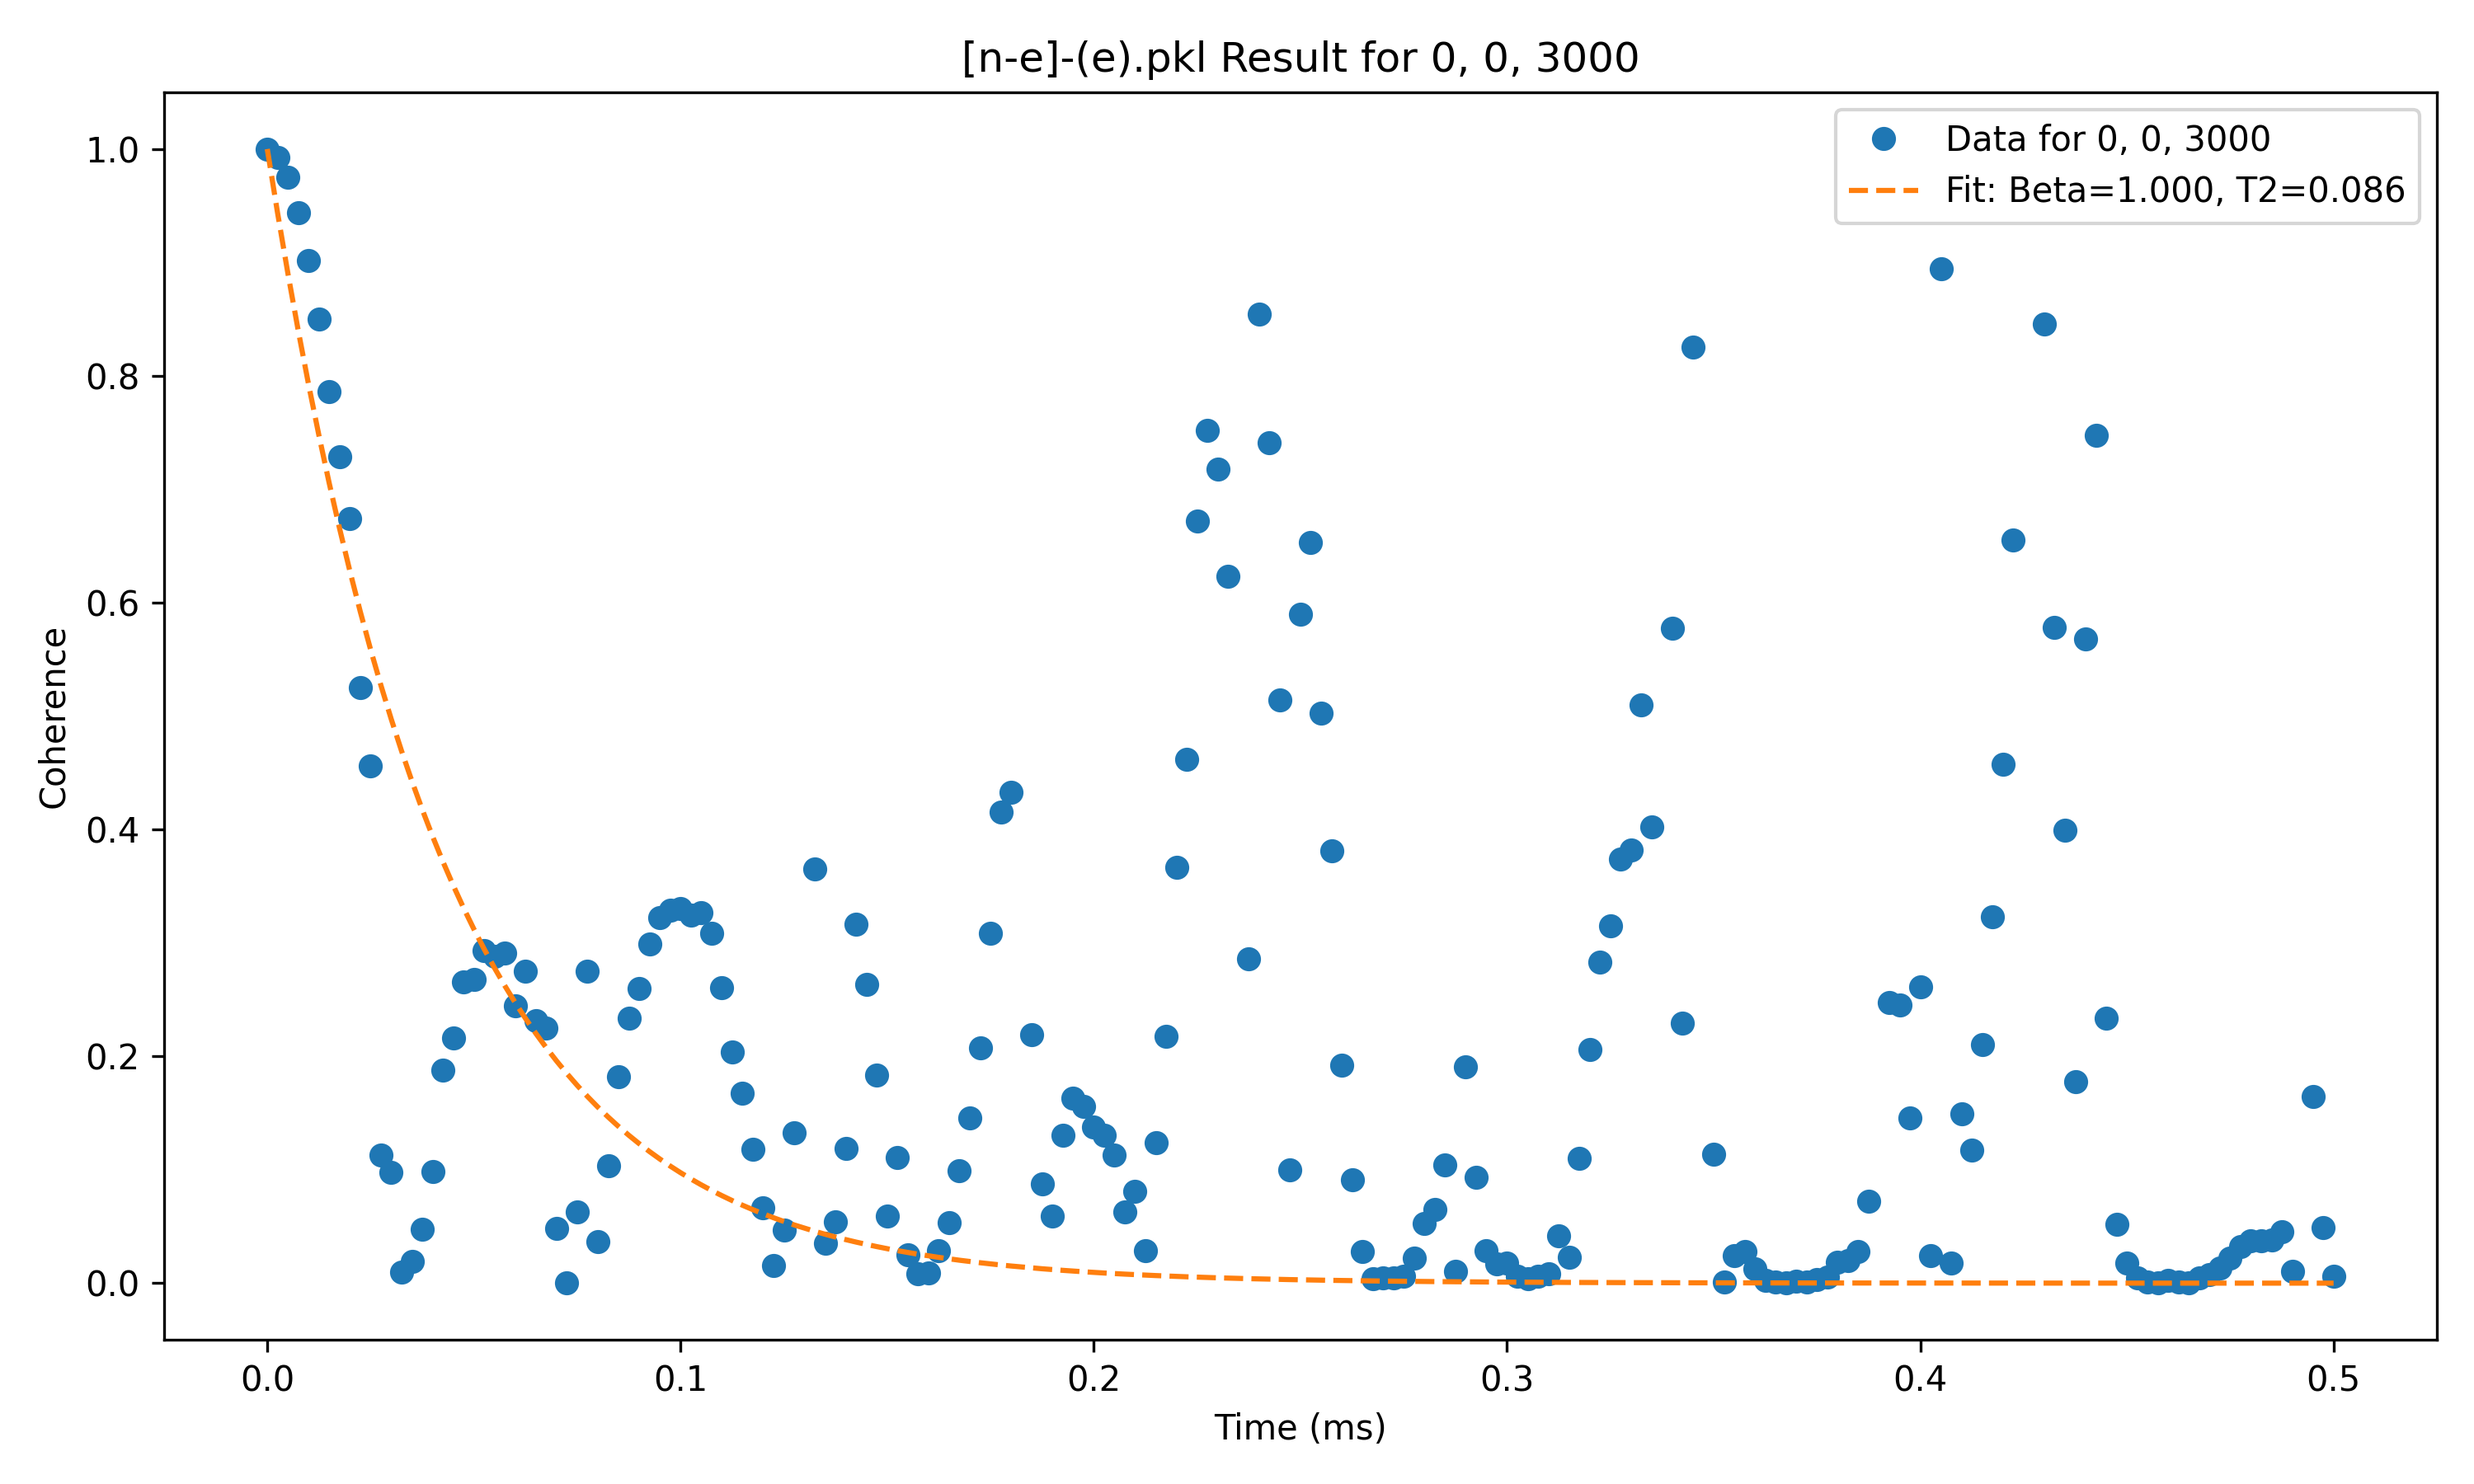
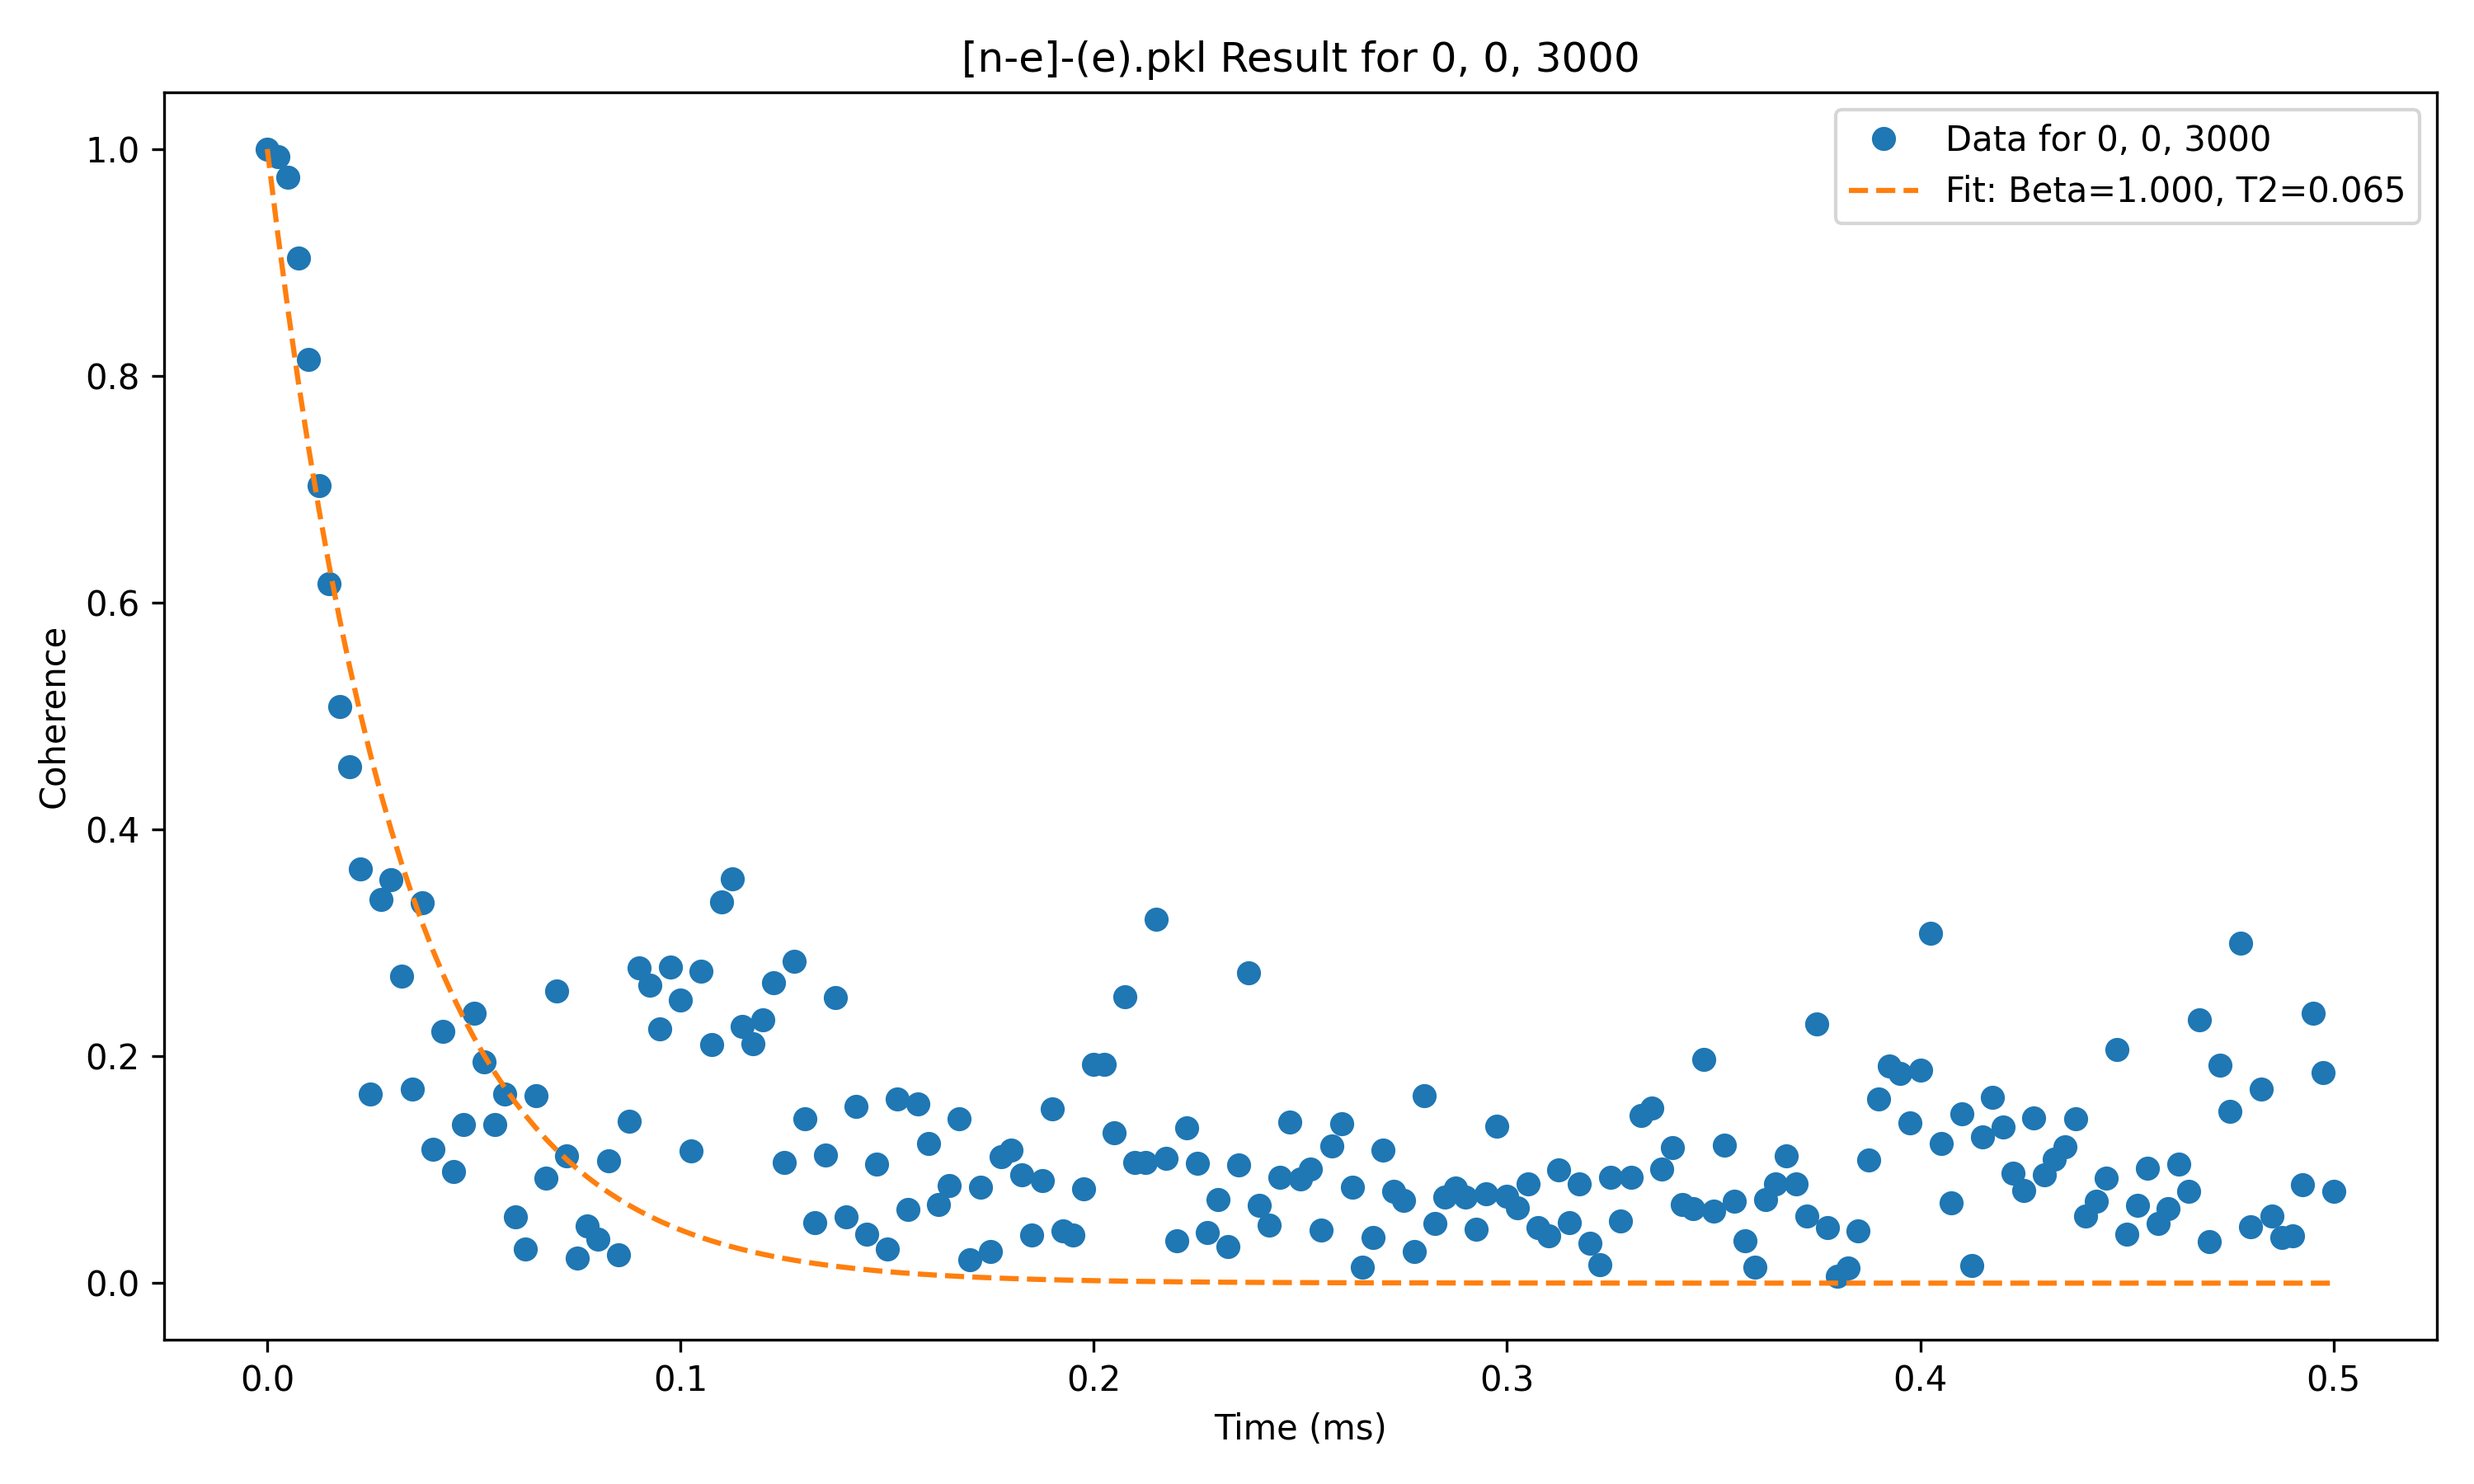
(2pi/3) Remarkably lovely coherence plot for 3000, will try for other Bs

diff --git a/VOTPP folder/VOTPP_[n-e]-(e).py b/VOTPP folder/VOTPP_[n-e]-(e).py
@@ -201,10 +201,10 @@ timespace_absolute = np.linspace(0, 0.5, 201)
 
 
 hahn_echo_sequence = pc.Sequence([ 
-    pc.Pulse(axis='x', angle='pi/2', delay=np.zeros(timespace_absolute.size),
+    pc.Pulse(axis='x', angle='2*pi/3', delay=np.zeros(timespace_absolute.size),
                 bath_names=('51V',
                 )), # 120° pulse around x-axis applied to bath spins),
-    pc.Pulse(axis='x', angle='pi', delay=timespace_absolute/2,
+    pc.Pulse(axis='x', angle='2*pi/3', delay=timespace_absolute/2,
                 bath_names=('51V',
                 ))]) # 120° pulse around x-axis applied to bath spins ])
     # pc.Pulse(axis='x', angle='pi/2',),
